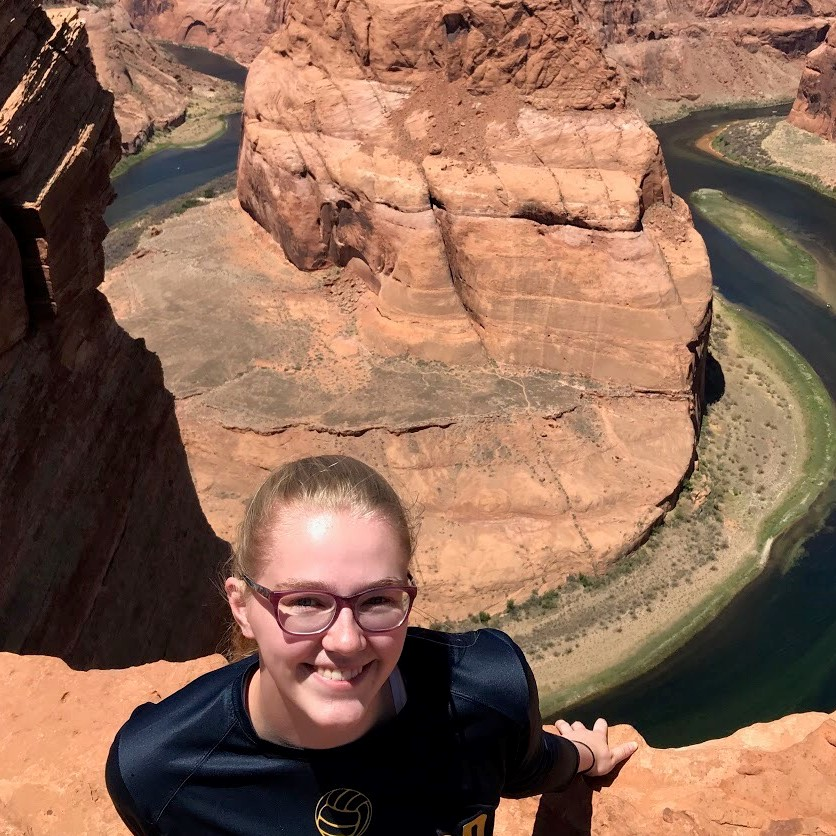
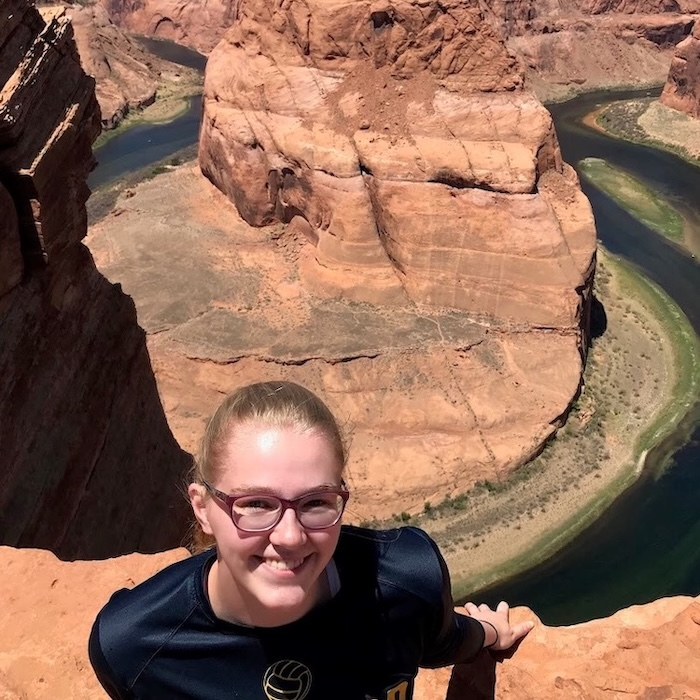
Add photos, resize some others

diff --git a/images/leaders/README.md b/images/leaders/README.md
@@ -1,0 +1,10 @@
+# Leader pictures
+
+This folder contains the pictures used on the /about/officers page.
+
+## Guidelines
+
+- Pictures should be square
+- Keep file size under 250kB
+- Use JPEG rather than PNG (it's lighter)
+- 800x800 with 72 resolution is more than enough for the size displayed on the page (quite small)
